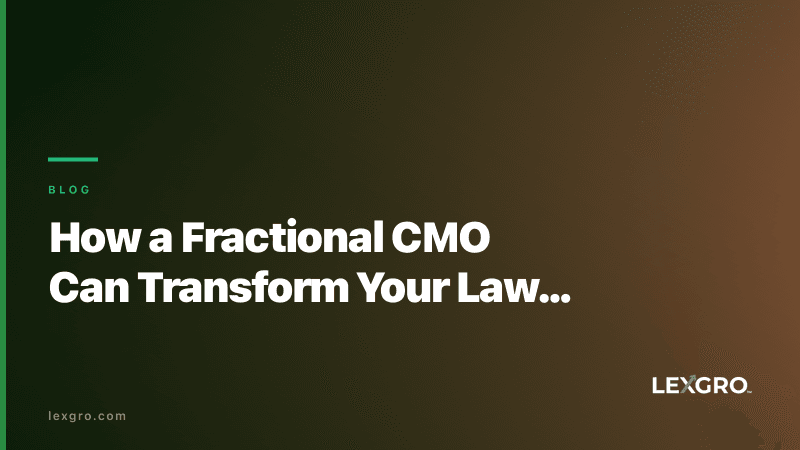
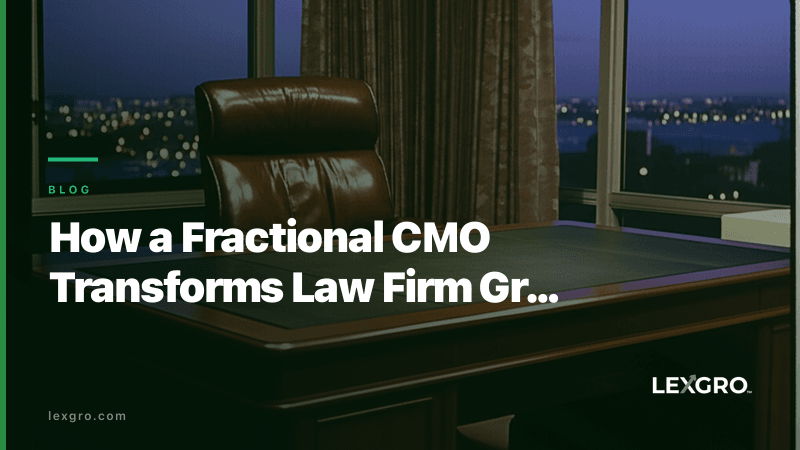
Update card prompts to editorial style + regenerate cards
- Change card prompts from abstract geometric to on-brand editorial photography
- Use same 35mm film aesthetic as OG images but with unique compositions
- Regenerate 26 card images with new prompts
- Cards now use documentary photography: coffee cups, journals, office details
- Matches overall LEXGRO brand visual identity

diff --git a/src/lib/og/prompts.ts b/src/lib/og/prompts.ts
@@ -431,15 +431,19 @@ export const HEX_COLORS = {
 }
 
 /**
- * CARD IMAGE PROMPTS - Abstract Geometric Style
+ * CARD IMAGE PROMPTS - Editorial Photography Style (On-Brand)
  *
- * Card images (800x450) use a different aesthetic than OG images:
- * - Abstract data visualizations
- * - Geometric shapes and patterns
- * - Growth/progress metaphors (upward arrows, networks, pathways)
- * - Dark green background with orange/coral and green accents
- * - Clean, modern, illustrative (NOT photographic)
- * - No text, no people, no logos
+ * Card images (800x450) use the SAME editorial aesthetic as OG images:
+ * - Documentary photography, 35mm film look
+ * - Kodak Portra / Fuji Pro colors
+ * - Natural light, authentic environments
+ * - Law firm and professional settings
+ * - NO abstract geometric, NO illustrations
+ *
+ * Cards are UNIQUE variations from OG images:
+ * - Different compositions and angles
+ * - Complementary but distinct scenes
+ * - Tighter crops, different focal points
  */
 export interface CardPromptConfig {
   prompt: string
@@ -450,110 +454,110 @@ export interface CardPromptConfig {
 export const CARD_PROMPTS: Record<string, CardPromptConfig> = {
   // === GROWTH / GENERAL ===
   'growth': {
-    prompt: `Abstract geometric data visualization on dark forest green background, glowing orange upward trending line graph with illuminated nodes at data points, thin parallel diagonal lines in corner, minimalist growth chart aesthetic, warm orange and gold accent colors, clean modern vector illustration style, no text, no people, no logos, corporate data visualization art`,
+    prompt: `Close-up of green office plant leaves catching morning light, modern desk blurred in background, growth metaphor, Kodak Portra 400 warm greens, 35mm film grain, editorial lifestyle photography, shallow depth of field, no people, no text, no logos`,
     fallbackGradient: [[1, 25, 7], [41, 140, 66]],
   },
 
   'network': {
-    prompt: `Abstract network diagram on dark green background, interconnected nodes in orange coral and mint green colors, glowing connection lines between circular nodes of varying sizes, data visualization aesthetic, clean geometric shapes, modern abstract illustration, no text, no people, no logos`,
+    prompt: `Overhead view of conference table with scattered business cards and coffee cups after meeting, warm afternoon light, connection and networking atmosphere, Fuji Pro 400H colors, 35mm documentary style, no readable text, no faces, no logos`,
     fallbackGradient: [[1, 25, 7], [26, 167, 116]],
   },
 
   'pathway': {
-    prompt: `Abstract minimalist pathway leading to glowing orange sunrise on horizon, dark teal green sky and ground, geometric white stepping stones or ladder rungs receding into distance, hope and progress metaphor, clean vector illustration style, no text, no people, no logos`,
+    prompt: `Hallway in professional building with natural light streaming from windows at end, leading lines, journey and progress atmosphere, warm golden hour, Kodak Portra 160 muted tones, architectural documentary style, no people, no text`,
     fallbackGradient: [[1, 25, 7], [255, 129, 88]],
   },
 
   'chart': {
-    prompt: `Abstract bar chart or graph visualization on dark green background, glowing orange and mint green bars ascending upward, subtle grid lines, minimalist data visualization, modern geometric illustration, no text, no numbers, no people, no logos`,
+    prompt: `Vintage calculator on wooden desk beside yellow legal pad, warm desk lamp light, financial planning atmosphere, 1980s professional aesthetic, Kodak Gold 200, shallow focus on calculator keys, no readable numbers, no people`,
     fallbackGradient: [[1, 25, 7], [37, 185, 123]],
   },
 
   // === PRACTICE AREAS ===
   'personal-injury-card': {
-    prompt: `Abstract shield or protection symbol made of glowing orange geometric lines on dark green background, strength and advocacy visual metaphor, interconnected nodes forming protective shape, modern data visualization aesthetic, no text, no people, no logos`,
+    prompt: `Detail of courthouse marble column with natural light, dignified institutional texture, advocacy atmosphere, overcast soft lighting, Tri-X converted to warm color, 35mm grain, no people, no text, no scales of justice`,
     fallbackGradient: [[1, 25, 7], [255, 129, 88]],
   },
 
   'family-law-card': {
-    prompt: `Abstract interconnected circles representing family bonds on dark green background, warm coral orange and soft green glowing nodes, supportive connected network visualization, clean geometric illustration, no text, no people, no logos`,
+    prompt: `Two empty chairs across desk in warm office light, supportive consultation setting, family photo frames face-down for privacy, evening golden hour, Portra 160 warm tones, no visible faces, no text, compassionate atmosphere`,
     fallbackGradient: [[1, 25, 7], [41, 140, 66]],
   },
 
   'bankruptcy-card': {
-    prompt: `Abstract pathway or staircase leading upward toward glowing orange sunrise on dark green background, fresh start and new beginning metaphor, clean geometric minimalist illustration, hope and progress visualization, no text, no people, no logos`,
+    prompt: `Fresh start: clean minimalist desk with single green plant catching morning light, organized surface, hopeful new beginning atmosphere, Portra 160 soft colors, editorial photography, no clutter, no people, no text`,
     fallbackGradient: [[1, 25, 7], [37, 185, 123]],
   },
 
   'criminal-defense-card': {
-    prompt: `Abstract balanced scales made of glowing geometric lines on dark purple-green background, justice and defense visual metaphor, modern minimalist data visualization style, subtle purple and green accents, no text, no people, no logos`,
+    prompt: `Law library detail: leather book spines in warm lamp light, dark wood shelves, serious scholarly atmosphere, evening study, Kodak Ektar muted colors, shallow focus on books, no readable titles, no people`,
     fallbackGradient: [[1, 25, 7], [103, 58, 228]],
   },
 
   'immigration-card': {
-    prompt: `Abstract globe or world map made of interconnected glowing nodes on dark green background, teal and orange connection lines spanning continents, global network visualization, modern geometric illustration, no text, no people, no flags, no logos`,
+    prompt: `Globe on desk with afternoon light, hopeful professional atmosphere, world map slightly out of focus on wall, welcoming law office setting, Fuji Pro 400H warm colors, no readable text, no flags, no people`,
     fallbackGradient: [[1, 25, 7], [26, 167, 116]],
   },
 
   'divorce-card': {
-    prompt: `Abstract two paths diverging then finding parallel harmony on dark green background, warm supportive orange and green tones, geometric line illustration showing transition and new direction, minimalist metaphor visualization, no text, no people, no logos`,
+    prompt: `Two leather chairs in consultation room, natural side light through window, respectful transition atmosphere, modern family law office, Portra 400 soft warm colors, no people, no text, supportive environment`,
     fallbackGradient: [[1, 25, 7], [41, 140, 66]],
   },
 
   'workers-comp-card': {
-    prompt: `Abstract protective gear or shield shape made of glowing orange geometric nodes and lines on dark green background, worker protection and support metaphor, modern data visualization aesthetic, no text, no people, no logos`,
+    prompt: `Detail of comfortable office seating area, natural light through window, worker advocacy atmosphere, supportive professional environment, Portra 160 warm colors, no people, no text, welcoming feeling`,
     fallbackGradient: [[1, 25, 7], [255, 129, 88]],
   },
 
   'dui-card': {
-    prompt: `Abstract balanced scales of justice with glowing purple and green geometric elements on dark background, defense and fairness metaphor, modern minimalist legal visualization, no text, no people, no logos`,
+    prompt: `Dignified law library corner with reading lamp on, leather chair in frame, serious professional atmosphere, defense practice setting, Kodak Ektar muted tones, no people, no text, no alcohol references`,
     fallbackGradient: [[1, 25, 7], [103, 58, 228]],
   },
 
   'estate-card': {
-    prompt: `Abstract tree with branching geometric lines representing legacy and growth on dark green background, warm orange and green nodes at branch points, family tree data visualization metaphor, modern illustration, no text, no people, no logos`,
+    prompt: `Antique pen and leather folder on wooden desk, natural window light, estate planning atmosphere, dignified trustworthy mood, Portra 400 vintage tones, shallow depth of field, no readable text, no people`,
     fallbackGradient: [[35, 59, 41], [41, 140, 66]],
   },
 
   // === SERVICES ===
   'fractional-cmo-card': {
-    prompt: `Abstract upward trending arrow made of glowing orange line with illuminated data nodes on dark forest green background, growth trajectory visualization, thin parallel accent lines, clean modern executive aesthetic, no text, no people, no logos`,
+    prompt: `Executive desk corner at dusk, city lights beginning outside window, empty leather chair, strategic leadership atmosphere, 1990s corporate style, Portra 400 warm/cool contrast, no people, no screens, no text`,
     fallbackGradient: [[1, 25, 7], [255, 129, 88]],
   },
 
   'marketing-card': {
-    prompt: `Abstract funnel or conversion flow made of glowing geometric shapes on dark green background, orange and mint green nodes showing progression, marketing data visualization, modern minimalist illustration, no text, no people, no logos`,
+    prompt: `Whiteboard with erased marks, dry erase markers on tray, empty conference room, morning strategy session atmosphere, 1990s consulting aesthetic, Fuji Pro 400H muted tones, no readable text, no people`,
     fallbackGradient: [[1, 25, 7], [37, 185, 123]],
   },
 
   'seo-card': {
-    prompt: `Abstract upward climbing graph or ranking visualization on dark green background, glowing orange and green ascending nodes connected by lines, search visibility metaphor, modern data visualization, no text, no people, no logos`,
+    prompt: `Research materials on desk: reference books stacked, notepad with pen, warm reading lamp, investigative atmosphere, 1990s information gathering aesthetic, Portra 160 muted colors, no readable text, no people, no screens`,
     fallbackGradient: [[1, 25, 7], [26, 167, 116]],
   },
 
   'training-card': {
-    prompt: `Abstract ascending steps or levels made of glowing geometric shapes on dark green background, skill progression visualization, orange and green illuminated platforms, learning journey metaphor, modern illustration, no text, no people, no logos`,
+    prompt: `Empty training room chairs facing whiteboard, handouts on seats, morning light through windows, professional development atmosphere, 1980s corporate training style, Kodak Ektar colors, no readable text, no people`,
     fallbackGradient: [[1, 25, 7], [41, 140, 66]],
   },
 
   'consulting-card': {
-    prompt: `Abstract two overlapping circles or venn diagram with glowing intersection on dark green background, partnership and collaboration visualization, orange and teal geometric elements, modern minimalist illustration, no text, no people, no logos`,
+    prompt: `Two leather chairs facing each other, coffee table between, consultation atmosphere, natural side light, warm inviting mood, Fuji Pro 400H tones, editorial interiors photography, no people, no text`,
     fallbackGradient: [[1, 25, 7], [26, 167, 116]],
   },
 
   // === CONTENT TYPES ===
   'blog-card': {
-    prompt: `Abstract network of interconnected ideas represented by glowing nodes on dark green background, orange and mint green connection lines, knowledge network visualization, modern data illustration, no text, no people, no logos`,
+    prompt: `Close-up of coffee cup beside open leather journal, morning light through window, creative workspace atmosphere, content creation mood, Portra 400 warm colors, 35mm grain, no readable text, no people`,
     fallbackGradient: [[1, 25, 7], [41, 140, 66]],
   },
 
   'guide-card': {
-    prompt: `Abstract roadmap or journey path with glowing waypoints on dark green background, orange milestone nodes connected by green pathway lines, navigation and guidance metaphor, modern geometric illustration, no text, no people, no logos`,
+    prompt: `Heavy reference book open on desk, reading glasses nearby, warm lamp evening light, educational research atmosphere, 1970s study mood, Portra 800 warm tones, shallow focus on page edges, no readable text, no people`,
     fallbackGradient: [[1, 25, 7], [37, 185, 123]],
   },
 
   'default-card': {
-    prompt: `Abstract upward growth visualization on dark forest green background, glowing orange trending line with connected data nodes, subtle diagonal accent lines, clean modern corporate aesthetic, minimalist geometric illustration, no text, no people, no logos`,
+    prompt: `Modern law office detail: green plant on credenza, natural light through window, professional welcoming atmosphere, editorial interiors style, Kodak Portra 400 warm colors, shallow depth of field, no people, no text, no logos`,
     fallbackGradient: [[1, 25, 7], [41, 140, 66]],
   },
 }
